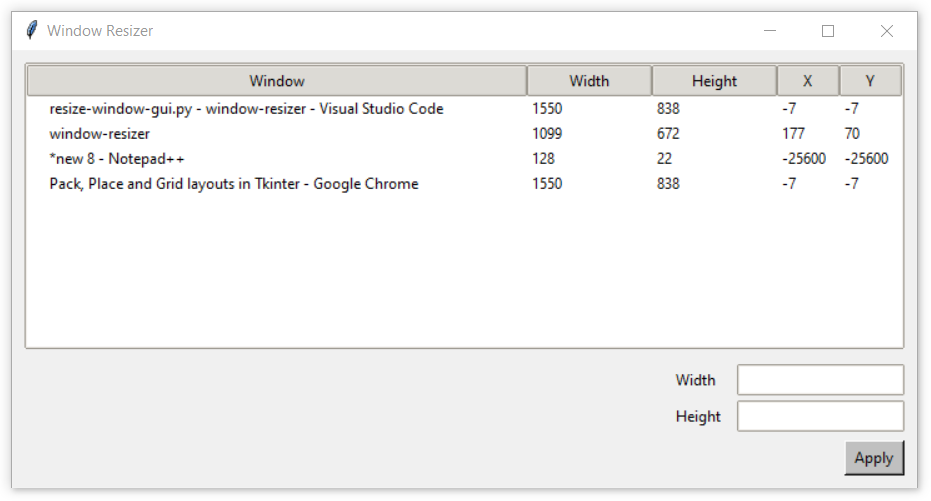
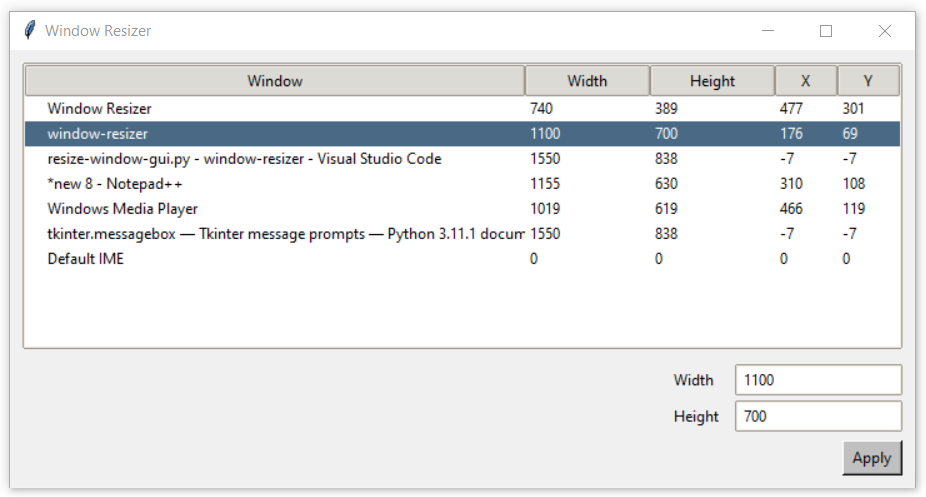
working apply button

diff --git a/resize-window-gui.py b/resize-window-gui.py
@@ -1,19 +1,23 @@
-import tkinter as tk
-import tkinter.ttk as ttk
-import tkinter.font as tkf
+import tkinter
+import tkinter.ttk
+import tkinter.messagebox
 import win32gui
 
-window = tk.Tk()
+window = tkinter.Tk()
 window.title('Window Resizer')
-style = ttk.Style(window)
+style = tkinter.ttk.Style(window)
 style.theme_use('clam')
 
 #region ==================== WINDOWS LIST
 
-windowsFrame = tk.Frame(window)
-# windowsFrame.grid(row=0, column=0)
+windows_frame = tkinter.Frame(window)
+# windows_frame.grid(row=0, column=0)
 
-tree = ttk.Treeview(windowsFrame, columns=('Width', 'Height', "X", "Y"))
+tree = tkinter.ttk.Treeview(
+    windows_frame,
+    columns=('Width', 'Height', "X", "Y"),
+    selectmode="browse",
+)
 tree.grid(row=1)
 tree.heading('#0', text='Window')
 tree.heading('Width', text='Width')
@@ -31,7 +35,7 @@ ignored_windows = [
     "Program Manager",
     "Microsoft Text Input Application",
 ]
-def callback(window, extra):
+def enum_windows(window, extra):
     if win32gui.IsWindowVisible(window):
         window_text = win32gui.GetWindowText(window)
         if window_text != "" and window_text not in ignored_windows:
@@ -50,9 +54,26 @@ def callback(window, extra):
                 window['x'],
                 window['y'],
             ))
-win32gui.EnumWindows(callback, None)
+win32gui.EnumWindows(enum_windows, None)
 
-windowsFrame.pack(anchor="w", padx=10, pady=(10, 0))
+def tree_click_handler(event):
+    selected_item = get_selected_window()
+    if selected_item is not None:
+        apply_button["state"] = "normal"
+        width_input.delete(0, tkinter.END)
+        height_input.delete(0, tkinter.END)
+        width_input.insert(0, selected_item["values"][0])
+        height_input.insert(0, selected_item["values"][1])
+
+tree.bind("<ButtonRelease-1>", tree_click_handler)
+
+windows_frame.pack(anchor="w", padx=10, pady=(10, 0))
+
+def get_selected_window():
+    selected_item_id = tree.focus()
+    if selected_item_id == "":
+        return None
+    return tree.item(selected_item_id)
 
 #endregion
 
@@ -60,24 +81,107 @@ windowsFrame.pack(anchor="w", padx=10, pady=(10, 0))
 
 style.configure('padded.TEntry', padding=[5, 3, 5, 3])
 
-sizeFrame = tk.Frame(window)
-# sizeFrame.grid(row=0, column=0, padx=10, pady=5)
+size_frame = tkinter.Frame(window)
+# size_frame.grid(row=0, column=0, padx=10, pady=5)
 
-widthLabel = tk.Label(sizeFrame, text="Width").grid(sticky="W", row=1, column=0, padx=(0, 10))
-widthInput = ttk.Entry(sizeFrame, style='padded.TEntry').grid(row=1, column=1, pady=2)
+width_label = tkinter.Label(size_frame, text="Width")
+width_label.grid(sticky="W", row=1, column=0, padx=(0, 10))
+width_input = tkinter.ttk.Entry(size_frame, style='padded.TEntry')
+width_input.grid(row=1, column=1, pady=2)
 
-heightLabel = tk.Label(sizeFrame, text="Height").grid(sticky="W", row=2, column=0, padx=(0, 10))
-heightInput = ttk.Entry(sizeFrame, style='padded.TEntry').grid(row=2, column=1, pady=2)
+height_label = tkinter.Label(size_frame, text="Height")
+height_label.grid(sticky="W", row=2, column=0, padx=(0, 10))
+height_input = tkinter.ttk.Entry(size_frame, style='padded.TEntry')
+height_input.grid(row=2, column=1, pady=2)
 
-applyButton = tk.Button(
-    sizeFrame,
+apply_button = tkinter.Button(
+    size_frame,
     text="Apply",
     pady=2,
     padx=4,
     background="silver",
-).grid(sticky="e", row=3, columnspan=2, pady=(5, 0))
+)
 
-sizeFrame.pack(anchor="e", padx=(0, 10), pady=10)
+def apply_button_click_handler(event):
+    if event.widget["state"] == "disabled":
+        return
+    selected_window = get_selected_window()
+    if selected_window is None:
+        tkinter.messagebox.showwarning(
+            title="Warning",
+            message="No window selected.\n\nSelect a window before applying size.",
+        )
+    width  = width_input.get()
+    height = height_input.get()
+    if width == "":
+        tkinter.messagebox.showwarning(
+            title="Warning",
+            message="The width input box is empty.",
+        )
+        return
+    if height == "":
+        tkinter.messagebox.showwarning(
+            title="Warning",
+            message="The height input box is empty.",
+        )
+        return
+    try:
+        width = int(width)
+    except ValueError:
+        tkinter.messagebox.showwarning(
+            title="Warning",
+            message="The entered value for width is not a number.",
+        )
+        return
+    try:
+        height = int(height)
+    except ValueError:
+        tkinter.messagebox.showwarning(
+            title="Warning",
+            message="The entered value for height is not a number.",
+        )
+        return
+    if (200 < width < 2000) is False:
+        tkinter.messagebox.showwarning(
+            title="Warning",
+            message="Invalid width.\n\nThe width is out of range: [200, 2000]",
+        )
+        return
+    if (200 < height < 2000) is False:
+        tkinter.messagebox.showwarning(
+            title="Warning",
+            message="Invalid height.\n\nThe width is out of range: [200, 2000]",
+        )
+        return
+    resize_window(selected_window["text"], width, height)
+    width_input.delete(0, tkinter.END)
+    height_input.delete(0, tkinter.END)
+    tree.delete(*tree.get_children())
+    win32gui.EnumWindows(enum_windows, None)
+
+def resize_window(window_title, width, height):
+    window_id = win32gui.FindWindowEx(None, None, None, window_title)
+    window_rect = win32gui.GetWindowRect(window_id)
+    window_rect2 = {
+        "x"      : window_rect[0],
+        "y"      : window_rect[1],
+        "width"  : window_rect[2] - window_rect[0],
+        "height" : window_rect[3] - window_rect[1],
+    }
+    win32gui.MoveWindow(
+        window_id,
+        window_rect2["x"],
+        window_rect2["y"],
+        width,
+        height,
+        True,
+    )
+
+apply_button.bind("<ButtonRelease-1>", apply_button_click_handler)
+apply_button["state"] = "disabled"
+apply_button.grid(sticky="e", row=3, columnspan=2, pady=(5, 0))
+
+size_frame.pack(anchor="e", padx=(0, 10), pady=10)
 
 #endregion
 

diff --git a/README.md b/README.md
@@ -13,7 +13,7 @@ Resize a window to specific dimensions.
 - [x] Switch to GUI; list windows along with their current position and size. (2022-02-02)
     - [ ] A refresh button.
     - [ ] Auto refresh, maybe?
-- [x] Add inputs for position and size (and a button to apply). (2022-02-03)
+- [x] Add inputs for position and size (and a button to apply). (2022-02-03/04)
 - [ ] Imitate window operations in the taskbar:
     - [ ] Cascade
     - [ ] Tile
